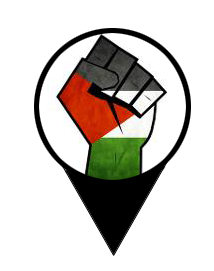
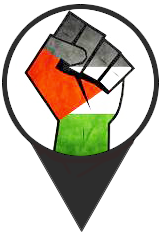
Replace map marker. New map styling.

diff --git a/contributors/templates/index.html b/contributors/templates/index.html
@@ -29,16 +29,83 @@
         function initialize() {
           // Create an array of styles.
           var styles = [
-            {
-              stylers: [
-                { "gamma": 0.62 },
-                { "visibility": "simplified" },
-                { "lightness": -71 },
-                { "saturation": -6 },
-                { "hue": "#1d2325" }
-              ]
-            }
-          ];
+              {
+                "featureType": "administrative",
+                "elementType": "geometry",
+                "stylers": [
+                  { "visibility": "off" }
+                ]
+              },{
+                "featureType": "road",
+                "elementType": "labels",
+                "stylers": [
+                  { "visibility": "off" }
+                ]
+              },{
+                "featureType": "poi",
+                "elementType": "geometry",
+                "stylers": [
+                  { "visibility": "off" }
+                ]
+              },{
+                "featureType": "landscape",
+                "elementType": "geometry",
+                "stylers": [
+                  { "gamma": 0.82 },
+                  { "visibility": "on" },
+                  { "hue": "#00a1ff" },
+                  { "lightness": -84 }
+                ]
+              },{
+                "featureType": "road",
+                "elementType": "geometry",
+                "stylers": [
+                  { "visibility": "on" },
+                  { "lightness": 15 },
+                  { "saturation": -10 },
+                  { "hue": "#00e5ff" }
+                ]
+              },{
+                "featureType": "administrative.country",
+                "elementType": "labels",
+                "stylers": [
+                  { "visibility": "off" }
+                ]
+              },{
+                "featureType": "administrative.province",
+                "elementType": "labels",
+                "stylers": [
+                  { "visibility": "off" }
+                ]
+              },{
+                "featureType": "administrative.neighborhood",
+                "elementType": "labels",
+                "stylers": [
+                  { "visibility": "off" }
+                ]
+              },{
+                "featureType": "administrative.land_parcel",
+                "elementType": "labels",
+                "stylers": [
+                  { "visibility": "off" }
+                ]
+              },{
+                "featureType": "water",
+                "elementType": "labels",
+                "stylers": [
+                  { "visibility": "off" }
+                ]
+              },{
+                "featureType": "water",
+                "stylers": [
+                  { "hue": "#0077ff" },
+                  { "saturation": -53 },
+                  { "lightness": -60 },
+                  { "gamma": 1.11 }
+                ]
+              },{
+              }
+            ];
 
           // Create a new StyledMapType object, passing it the array of styles,
           // as well as the name to be displayed on the map type control.
@@ -213,7 +280,7 @@
                         position: new google.maps.LatLng(objJson[i].lat, objJson[i].lng),
                         map: map,
                         animation: google.maps.Animation.DROP,
-                        icon: "{% static 'img/freepst_fist_icon.png' %}",
+                        icon: "{% static 'img/free_palestine_gray.png' %}",
                         info: contentString
                     });
 
